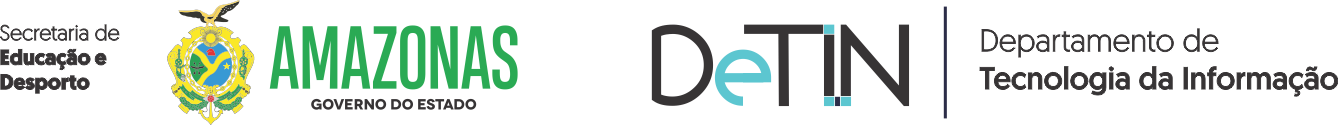
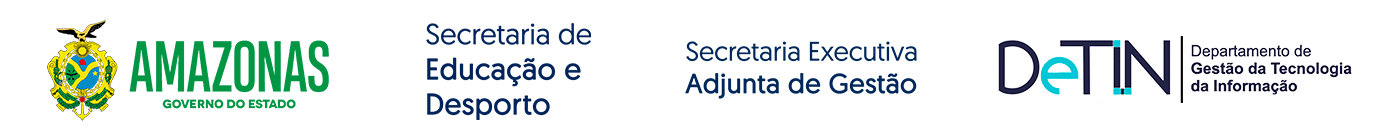
tratamento da rota de registro, correcao do rodape, correcao legenda register, remoçoes de nao utilidades

Changed region(s): [[0.4596, 0.192, 1.0, 0.864], [0.0, 0.0, 0.429, 0.984]]

diff --git a/public/css/main.css b/public/css/main.css
@@ -168,7 +168,7 @@ iframe {
 
 .container-login100 {
   width: 100%;  
-  min-height: 90vh;
+  min-height: 100vh;
   display: -webkit-box;
   display: -webkit-flex;
   display: -moz-box;
@@ -185,18 +185,21 @@ iframe {
 #imagem{
 
   width: 50%;
- 
+  min-height: 5vh;
+  align-items: center;
  }
  .footer {
    position:absolute;
    left: 0;
    bottom: 0;
    width: 100%;
-   background-color: #ffffff;
+   background-color: white;
    color: white;
    text-align: center;
-   height:12%;
+   min-height:15px;
+   align-items: center;
    /* padding:10px; */
+
  }
 
 

diff --git a/resources/views/layouts/app.blade.php b/resources/views/layouts/app.blade.php
@@ -36,7 +36,7 @@
 <!--===============================================================================================-->
 	<link rel="stylesheet" type="text/css" href="vendor\vendor\select2\select2.min.css">
 <!--===============================================================================================-->	
-	<link rel="stylesheet" type="text/css" href="vendor\vendor\daterangepicke\daterangepicker.css">
+	<link rel="stylesheet" type="text/css" href="vendor\daterangepicker\daterangepicker.css">
 <!--===============================================================================================-->
 	<link rel="stylesheet" type="text/css" href="css\util.css">
 	<link rel="stylesheet" type="text/css" href="css\main.css">
@@ -56,7 +56,7 @@
 <!--===============================================================================================-->
 	<script src="vendor/vendor/animsition/js/animsition.min.js"></script>
 <!--===============================================================================================-->
-	<script src="vendor/bootstrap/js/popper.js"></script>
+	<script src="vendor\bootstrap\js\popper.js"></script>
 	<script src="vendor/vendor/bootstrap/js/bootstrap.min.js"></script>
 <!--===============================================================================================-->
 	<script src="vendor/vendor/select2/select2.min.js"></script>

diff --git a/routes/web.php b/routes/web.php
@@ -19,7 +19,7 @@ Route::get('/', function () {
 
 Auth::routes();
 
-Route::get('/home', [App\Http\Controllers\HomeController::class, 'index'])->name('home');
+Route::get('/home', [App\Http\Controllers\HomeController::class, 'index'])->name('home')->middleware('auth');
 /* Route::any('/search', [App\Http\Controllers\HomeController::class, 'search'])->name('search'); */
 Route::any('/searchaluno', [App\Http\Controllers\HomeController::class, 'searchaluno'])->name('search_aluno');
 /* Route::any('/search_aluno_result', [App\Http\Controllers\HomeController::class, 'searchresulaluno'])->name('search_aluno_result'); */
@@ -27,4 +27,3 @@ Route::any('/searchmae', [App\Http\Controllers\HomeController::class, 'searchama
 /* Route::any('/search_mae_result', [App\Http\Controllers\HomeController::class, 'searchresulmae'])->name('search_mae_result'); */
 /* Route::get('/home1', [App\Http\Controllers\SupletivoController::class, 'index'])->name('home'); */
 
-Route::get('/logout',[App\Http\Controllers\HomeController::class,'logout'])->name('logout');

diff --git a/resources/views/auth/login.blade.php b/resources/views/auth/login.blade.php
@@ -58,13 +58,6 @@
 					</div>
 
 				</form>
-				<div class="container-login100-form-btn" action="{{route('register')}}">
-						<a href="{{route('register')}}">
-						<button type="submit" class="text-white">
-							Cadastrar usuario
-						</button>
-						</a>
-					</div>
 			</div>
 		</div>
 
@@ -72,7 +65,7 @@
 		<div class="footer">
     <div class="position-relative">
 	<div style="background-color:#001956;font-size:0.8rem;">Copyright 2021 © Secretaria de Estado de Educação do Amazonas - Todos os direitos reservados.</div>
-      <img src="img\rodape.png" id="imagem">
+      <img src="img\rodape2.png" id="imagem">
 	 
     </div>
   </div>

diff --git a/app/Http/Controllers/HomeController.php b/app/Http/Controllers/HomeController.php
@@ -23,6 +23,7 @@ class HomeController extends Controller
         $this->objUser=new User();
         $this->objSupletivo= new ModelSupletivo();
         $this->middleware('auth');
+      
     }
 
     /**
@@ -110,10 +111,10 @@ public function searchamae(Request $request)
         return view('search_aluno_resul', compact('search_name'));
     } */
 
-    public function logout(){
-        Auth::logout();
-        return redirect()->route('register');
+    // public function logout(){
+    //     Auth::logout();
+    //     return redirect()->route('register');
   
-      }
+    //   }
 
 }

diff --git a/resources/views/home.blade.php b/resources/views/home.blade.php
@@ -23,11 +23,11 @@
 
 </br>   
 @if($show)             
-<div class="card text-white bg-dark mb-3" style="max-width: 18rem;">
+<div class=" card text-white bg-dark mb-3" style="max-width: 18rem;">
   <div class="card-header" >Cadastrar um Usuário</div>
   <div class="card-body">
     <h5 class="card-title"></h5>
-    <a href="{{route('logout')}}">
+    <a href="{{route('register')}}">
 <button  style="background-color:#212529;" class="btn btn-dark"  type="submit">
 Cadastrar
 </button>

diff --git a/app/Http/Controllers/Auth/RegisterController.php b/app/Http/Controllers/Auth/RegisterController.php
@@ -38,7 +38,8 @@ class RegisterController extends Controller
      */
     public function __construct()
     {
-        $this->middleware('guest');
+        // $this->middleware('guest'); // ao remover o usuario consegue acessar a pagina de register logado
+         $this->middleware('can:ver-form'); // verifca se o usuario pode acessar a pagina 
     }
 
     /**

diff --git a/app/Providers/AuthServiceProvider.php b/app/Providers/AuthServiceProvider.php
@@ -27,7 +27,7 @@ class AuthServiceProvider extends ServiceProvider
         
         Gate::define('ver-form', function($user){ // identifica o adm no sistema
 
-            if($user->permission==1){
+            if($user->permission ===1){
               return true;
 
             }else{
